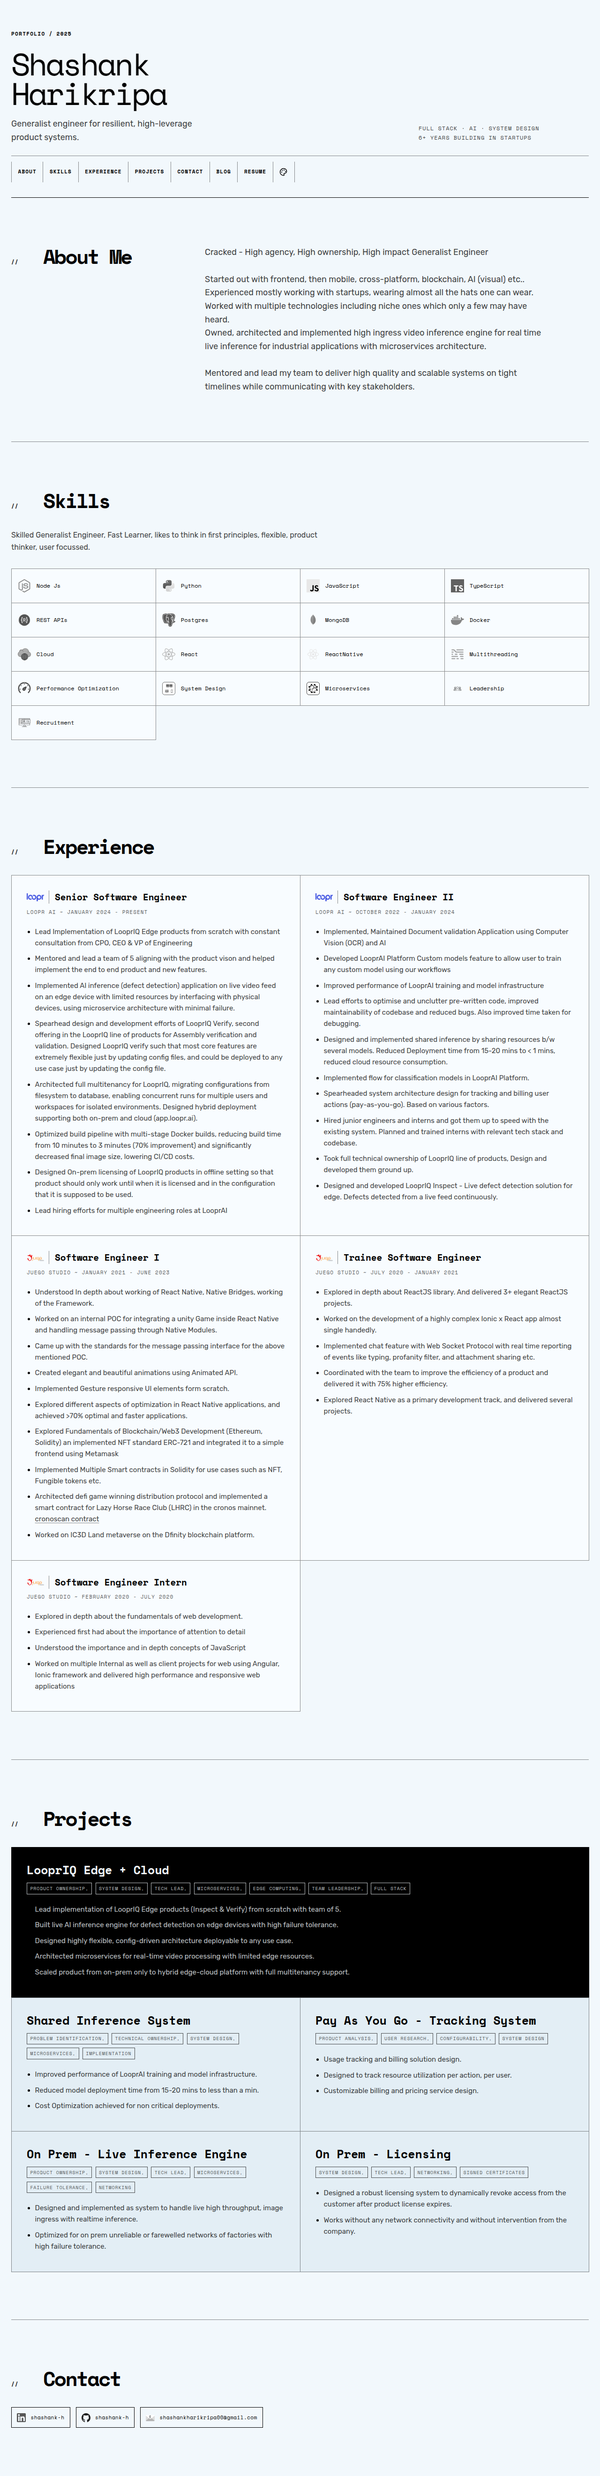
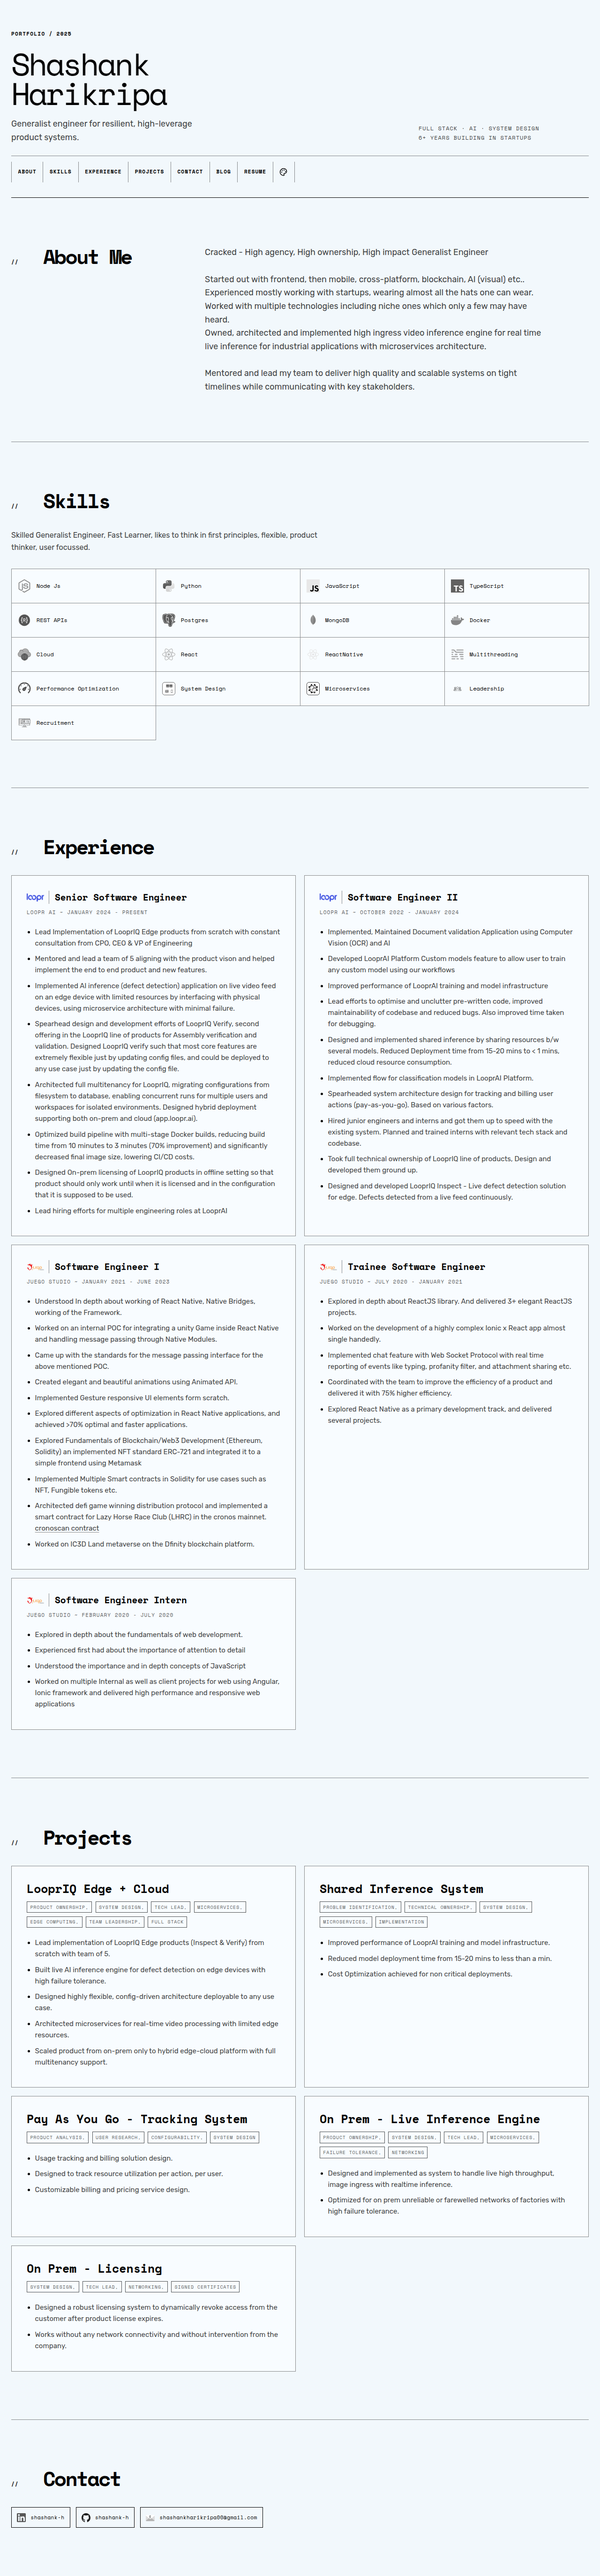
Restore card treatment and full theme palette

diff --git a/styles.css b/styles.css
@@ -10,6 +10,11 @@
   --selection: #000000;
   --selection-text: #F2F8FC;
   --accent: #000000;
+  /* Legacy aliases keep the blog and portfolio on one token system. */
+  --bg-color: var(--background);
+  --text-color: var(--foreground);
+  --accent-color: var(--accent);
+  --border-color: var(--rule);
 }
 
 [data-theme="light"] { color-scheme: light; }
@@ -40,6 +45,61 @@
   --accent: #D1B46A;
   --selection: #F2F8FC;
   --selection-text: #24221F;
+}
+
+/* Hue variants retain the same saturation and value as the dark reference. */
+[data-theme="ocean"] {
+  color-scheme: dark;
+  --background: #1F2224;
+  --foreground: #F2F8FC;
+  --surface: #282F30;
+  --surface-subtle: #24292A;
+  --text-secondary: rgba(242, 248, 252, 0.76);
+  --text-muted: rgba(242, 248, 252, 0.68);
+  --rule: #6F7E82;
+  --accent: #6AAED1;
+  --selection: #F2F8FC;
+  --selection-text: #1F2224;
+}
+[data-theme="forest"] {
+  color-scheme: dark;
+  --background: #20241F;
+  --foreground: #F5FCF2;
+  --surface: #2B3028;
+  --surface-subtle: #252A24;
+  --text-secondary: rgba(245, 252, 242, 0.76);
+  --text-muted: rgba(245, 252, 242, 0.68);
+  --rule: #74826F;
+  --accent: #8BD16A;
+  --selection: #F5FCF2;
+  --selection-text: #20241F;
+}
+[data-theme="cyberpunk"] {
+  color-scheme: dark;
+  --background: #241F23;
+  --foreground: #FCF2FA;
+  --surface: #30282E;
+  --surface-subtle: #2A2429;
+  --text-secondary: rgba(252, 242, 250, 0.76);
+  --text-muted: rgba(252, 242, 250, 0.68);
+  --rule: #82707F;
+  --accent: #D16ABC;
+  --selection: #FCF2FA;
+  --selection-text: #241F23;
+}
+/* Coffee shifts only the light reference palette hue; lightness remains unchanged. */
+[data-theme="coffee"] {
+  color-scheme: light;
+  --background: #FCF6F2;
+  --foreground: #000000;
+  --surface: #F5EAE3;
+  --surface-subtle: #FFFDF8;
+  --text-secondary: rgba(0, 0, 0, 0.76);
+  --text-muted: rgba(0, 0, 0, 0.68);
+  --rule: rgba(0, 0, 0, 0.45);
+  --accent: #D1956A;
+  --selection: #000000;
+  --selection-text: #FCF6F2;
 }
 
 * { box-sizing: border-box; }
@@ -128,8 +188,8 @@ section > p { max-width: 65ch; color: var(--text-secondary); }
 .skill-container li { display: flex; align-items: center; min-height: 74px; gap: .75rem; margin: 0 -1px -1px 0; padding: .8rem; border: 1px solid var(--rule); background: var(--surface-subtle); font-family: "Space Mono", ui-monospace, monospace; font-size: .75rem; line-height: 1.35; }
 .skill-container li img { width: 28px; height: 28px; flex: 0 0 auto; filter: grayscale(1) contrast(1.2); }
 
-.all-experiences { display: grid; grid-template-columns: repeat(2, minmax(0, 1fr)); gap: 0; }
-.experience-container { min-width: 0; margin: 0 -1px -1px 0; padding: clamp(1.25rem, 2.5vw, 2rem); border: 1px solid var(--rule); background: var(--surface-subtle); }
+.all-experiences { display: grid; grid-template-columns: repeat(2, minmax(0, 1fr)); gap: clamp(.75rem, 1.4vw, 1.25rem); }
+.experience-container { min-width: 0; padding: clamp(1.25rem, 2.5vw, 2rem); border: 1px solid var(--rule); background: var(--surface-subtle); }
 .experience-container h3 { display: flex; align-items: center; gap: .75rem; margin-bottom: .6rem; font-family: "Space Mono", ui-monospace, monospace; font-size: clamp(1rem, 1.6vw, 1.2rem); line-height: 1.25; }
 .experience-container h3 a { display: flex; flex: 0 0 auto; }
 .experience-container h3 img { width: 48px; height: 28px; object-fit: contain; padding-right: .65rem; border-right: 1px solid var(--rule); }
@@ -138,10 +198,8 @@ section > p { max-width: 65ch; color: var(--text-secondary); }
 .experience-list li, .outcome li { margin-bottom: .6rem; }
 .experience-list li::marker, .outcome li::marker { color: var(--accent); }
 
-.all-projects { display: grid; grid-template-columns: repeat(12, 1fr); gap: 0; margin-top: 1.5rem; }
-.project-container { grid-column: span 6; margin: 0 -1px -1px 0; padding: clamp(1.25rem, 2.5vw, 2rem); border: 1px solid var(--rule); background: var(--surface); }
-.project-container:first-child { grid-column: 1 / -1; background: var(--foreground); color: var(--background); }
-.project-container:first-child .involvement, .project-container:first-child .outcome { color: color-mix(in srgb, var(--background) 78%, transparent); }
+.all-projects { display: grid; grid-template-columns: repeat(2, minmax(0, 1fr)); gap: clamp(.75rem, 1.4vw, 1.25rem); margin-top: 1.5rem; }
+.project-container { min-width: 0; padding: clamp(1.25rem, 2.5vw, 2rem); border: 1px solid var(--rule); background: var(--surface-subtle); }
 .project-container h3 { margin-bottom: .75rem; font-family: "Space Mono", ui-monospace, monospace; font-size: clamp(1.1rem, 2vw, 1.55rem); line-height: 1.25; }
 .involvement { display: flex; flex-wrap: wrap; gap: .45rem; margin-bottom: 1.25rem; color: var(--text-muted); font-size: .625rem; letter-spacing: .08em; line-height: 1.5; text-transform: uppercase; }
 .involvement span { border: 1px solid currentColor; padding: .24rem .4rem; }
@@ -153,11 +211,13 @@ section > p { max-width: 65ch; color: var(--text-secondary); }
 .contact-container a:hover li, .contact-container a:focus-visible li { background: var(--selection); color: var(--selection-text); }
 .contact-container li img { width: 19px; height: 19px; filter: grayscale(1) contrast(1.4); }
 
-.theme-menu { position: fixed; top: 1rem; right: 1rem; z-index: 10; display: grid; grid-template-columns: repeat(3, 1fr); gap: 1px; width: min(310px, calc(100vw - 2rem)); padding: 1px; border: 1px solid var(--foreground); background: var(--foreground); opacity: 0; pointer-events: none; transform: translateY(-8px); transition: opacity .18s ease, transform .18s ease; }
+.theme-menu { position: fixed; top: 1rem; right: 1rem; z-index: 10; display: grid; grid-template-columns: repeat(3, 1fr); gap: .5rem; width: min(360px, calc(100vw - 2rem)); padding: .75rem; border: 1px solid var(--foreground); background: var(--background); opacity: 0; pointer-events: none; transform: translateY(-8px); transition: opacity .18s ease, transform .18s ease; }
 .theme-menu[aria-hidden="false"] { opacity: 1; pointer-events: auto; transform: translateY(0); }
-.theme-option { display: grid; justify-items: center; gap: .5rem; min-height: 92px; padding: .7rem .35rem; border: 0; border-radius: 0; background: var(--surface-subtle); color: var(--foreground); cursor: pointer; font-size: .625rem; letter-spacing: .08em; text-transform: uppercase; }
-.theme-option:hover, .theme-option:focus-visible, .theme-option[aria-checked="true"] { background: var(--selection); color: var(--selection-text); outline: none; }
-.theme-swatch { width: 28px; height: 28px; border: 1px solid currentColor; background: var(--swatch-bg); position: relative; }
+.theme-option { display: grid; justify-items: center; gap: .5rem; min-height: 108px; padding: .7rem .35rem; border: 1px solid transparent; border-radius: 0; background: var(--surface-subtle); color: var(--foreground); cursor: pointer; font-size: .625rem; letter-spacing: .08em; text-transform: uppercase; transition: background-color .18s ease, color .18s ease, border-color .18s ease; }
+.theme-option:hover, .theme-option:focus-visible { border-color: var(--accent); background: var(--surface); outline: none; }
+.theme-option[aria-checked="true"] { border-color: var(--foreground); background: var(--selection); color: var(--selection-text); }
+.theme-swatch { width: 44px; height: 44px; border: 2px solid currentColor; background: var(--swatch-bg); position: relative; transition: transform .18s ease; }
+.theme-option:hover .theme-swatch, .theme-option:focus-visible .theme-swatch { transform: scale(1.06); }
 .theme-swatch::after { content: ""; position: absolute; right: 0; bottom: 0; width: 50%; height: 50%; background: var(--swatch-accent); }
 .theme-menu-overlay { display: none; }
 
@@ -177,7 +237,7 @@ section > p { max-width: 65ch; color: var(--text-secondary); }
   #about h2 { margin-bottom: 1.5rem; }
   .skill-container ul { grid-template-columns: repeat(2, 1fr); }
   .all-experiences { grid-template-columns: 1fr; }
-  .project-container, .project-container:first-child { grid-column: 1 / -1; }
+  .all-projects { grid-template-columns: 1fr; }
   .contact-container { display: grid; }
   .contact-container a, .contact-container li { width: 100%; }
   .theme-menu { top: auto; bottom: 1rem; }

diff --git a/theme.js b/theme.js
@@ -5,6 +5,10 @@ const THEMES = [
   { id: 'system', name: 'System', bg: '#F2F8FC', accent: '#000000' },
   { id: 'light', name: 'Light', bg: '#F2F8FC', accent: '#000000' },
   { id: 'dark', name: 'Dark', bg: '#24221F', accent: '#D1B46A' },
+  { id: 'ocean', name: 'Ocean', bg: '#1F2224', accent: '#6AAED1' },
+  { id: 'forest', name: 'Forest', bg: '#20241F', accent: '#8BD16A' },
+  { id: 'cyberpunk', name: 'Cyber', bg: '#241F23', accent: '#D16ABC' },
+  { id: 'coffee', name: 'Coffee', bg: '#FCF6F2', accent: '#D1956A' },
 ];
 
 class ThemePicker {
